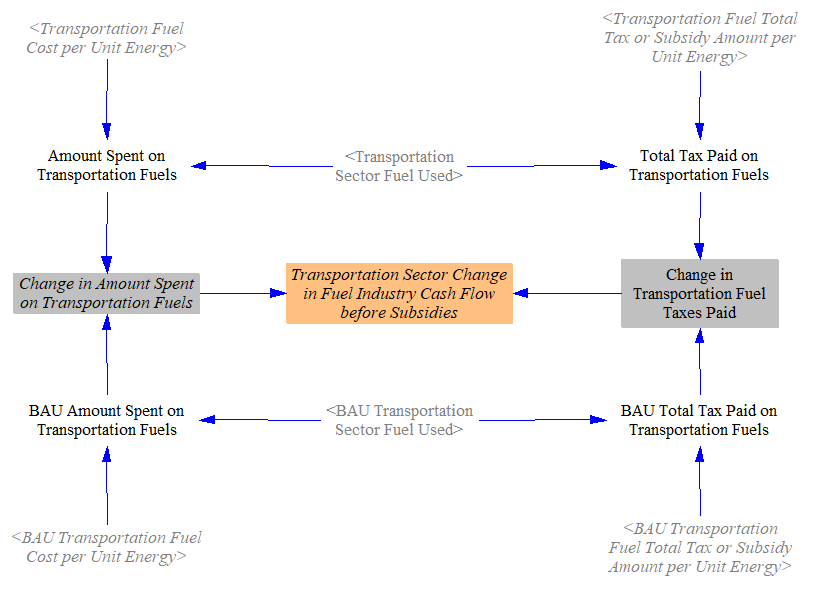
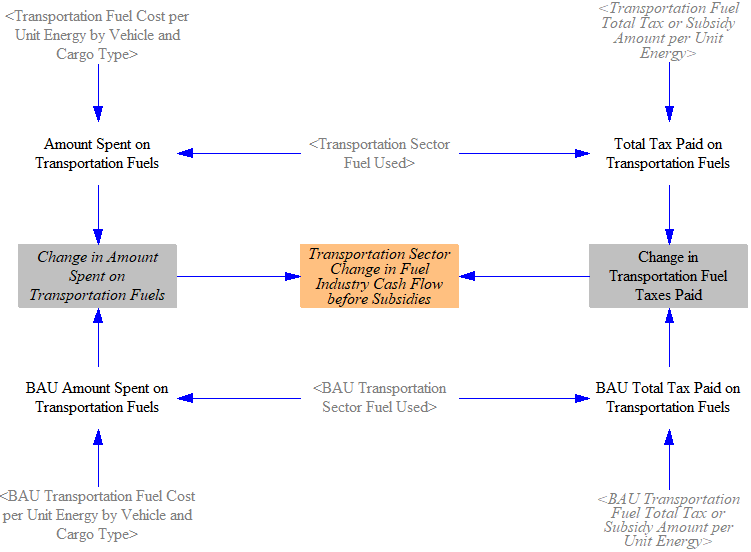
transport-cash docs after review of claude edits

diff --git a/docs/transportation-sector-cash.md b/docs/transportation-sector-cash.md
@@ -33,7 +33,6 @@ We separately calculate the change in EV subsidies by multiplying the subsidy va
 
 Similarly, we multiply the battery subsidy values by the number of vehicles sold and the battery capacity of each vehicle in both the policy and BAU cases in order to find the change in total subsidies paid. Battery prices and the resulting subsidy pass-through to consumers are tracked by vehicle type, reflecting that battery pack prices vary by vehicle and cargo mode (see the [Battery Pack Price Multiplier](transportation-sector-main#new-vehicle-price) discussion on the main transportation page). The share of the subsidy passed through to consumers is broken out for revenue tracking purposes.
 
-<!-- TODO: screenshot may need replacement — view shown is from 4.0.4 and does not depict the per-vehicle-type disaggregation of battery manufacturing price added in 4.0.5. -->
 ![calculating change in vehicle battery subsidies](/img/transportation-sector-cash-BatterySubsidies.png)
 
 ### Change in Other Transportation Costs
@@ -46,7 +45,7 @@ We also calculate the change in transport fares paid. We take input data on fare
 
 ![calculating change in transport fares](/img/transportation-sector-cash-TransFares.png)
 
-Finally, we calculate the change in amount spent on EV chargers. We take input data on the cost of EV chargers and multiply by the number of chargers deployed in both the policy and BAU cases. 
+Finally, we calculate the change in amount spent on EV chargers. We take input data on the cost of EV chargers and multiply by the number of chargers deployed in both the policy and BAU cases. This calculation captures the public-charger network funded by the EV Charger Deployment policy. Note that this is distinct from the home-charger installation cost paid by individual passenger LDV BEV buyers, which is included in vehicle pricing on the [main transportation page](transportation-sector-main#npv-of-lifetime-annual-expenditures) rather than tracked here.
 
 ![calculating change in transport fares](/img/transportation-sector-cash-ChargerCosts.png)
 
@@ -62,7 +61,6 @@ First, we allocate transportation expenditures. To do this, we find the fraction
 
 We then allocate energy expenditures to each of the cash flow entities by multiplying the change in amount spent on transportation fuels by vehicle type by the fraction of vehicles owned by each entity. The model also tracks the change in energy expenditures broken out simultaneously by entity and by fuel type, so downstream calculations can attribute (for example) gasoline-related cash flow effects to consumers separately from electricity-related effects to the same entity.
 
-<!-- TODO: screenshot may need replacement — view shown is from 4.0.4 and does not depict the new by-entity-and-fuel disaggregation added in 4.0.5. -->
 ![calculating change in energy expenditures by entity](/img/transportation-sector-cash-EnergyExpbyEntity.png)
 
 We next allocate nonenergy expenditures. Generally, the categories of spending shown in the screenshot below are assigned to entities based on the change in amount multiplied by the fraction of vehicles owned by that entity. The exceptions are the change in EV and battery production subsidies paid, which are paid wholly by the government, and changes in transport fares (passenger fares are assigned to labor and consumers, while freight fares are assigned to nonenergy industries).
